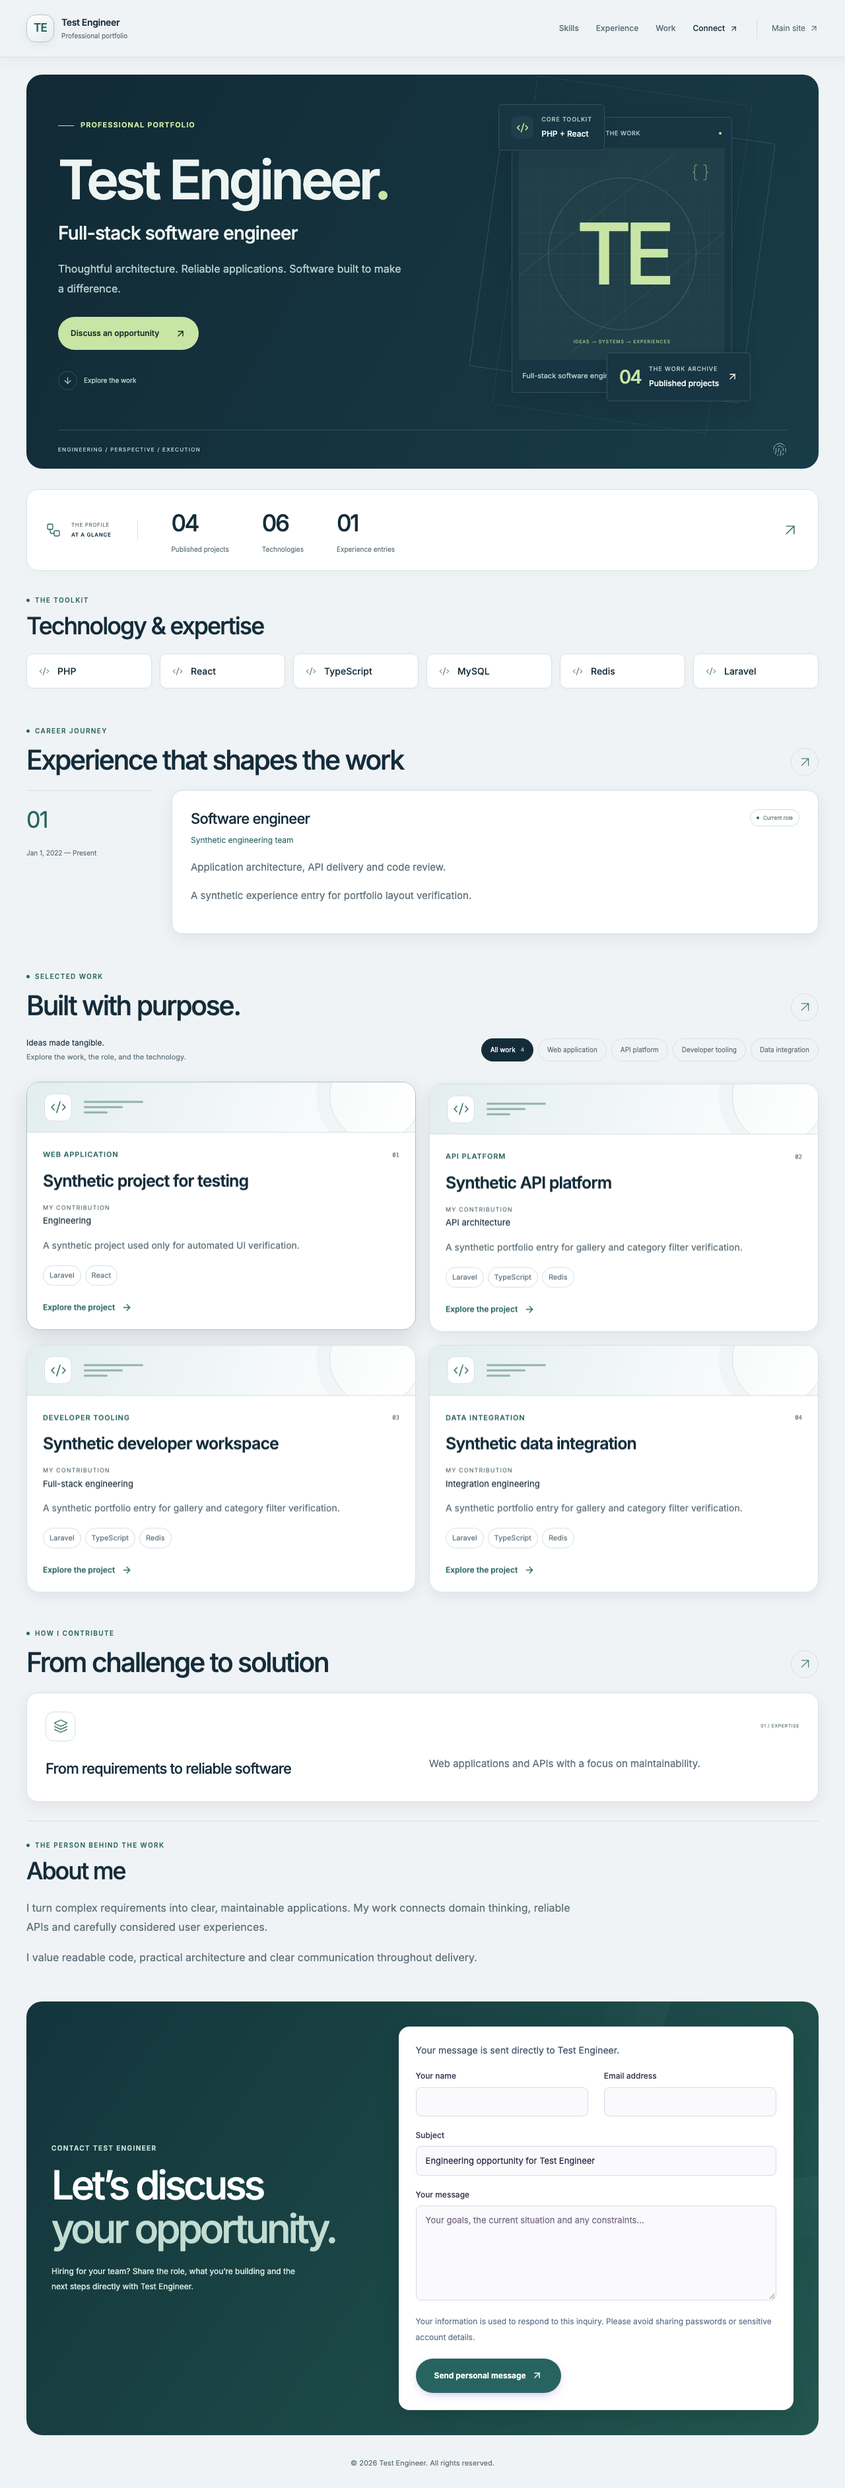
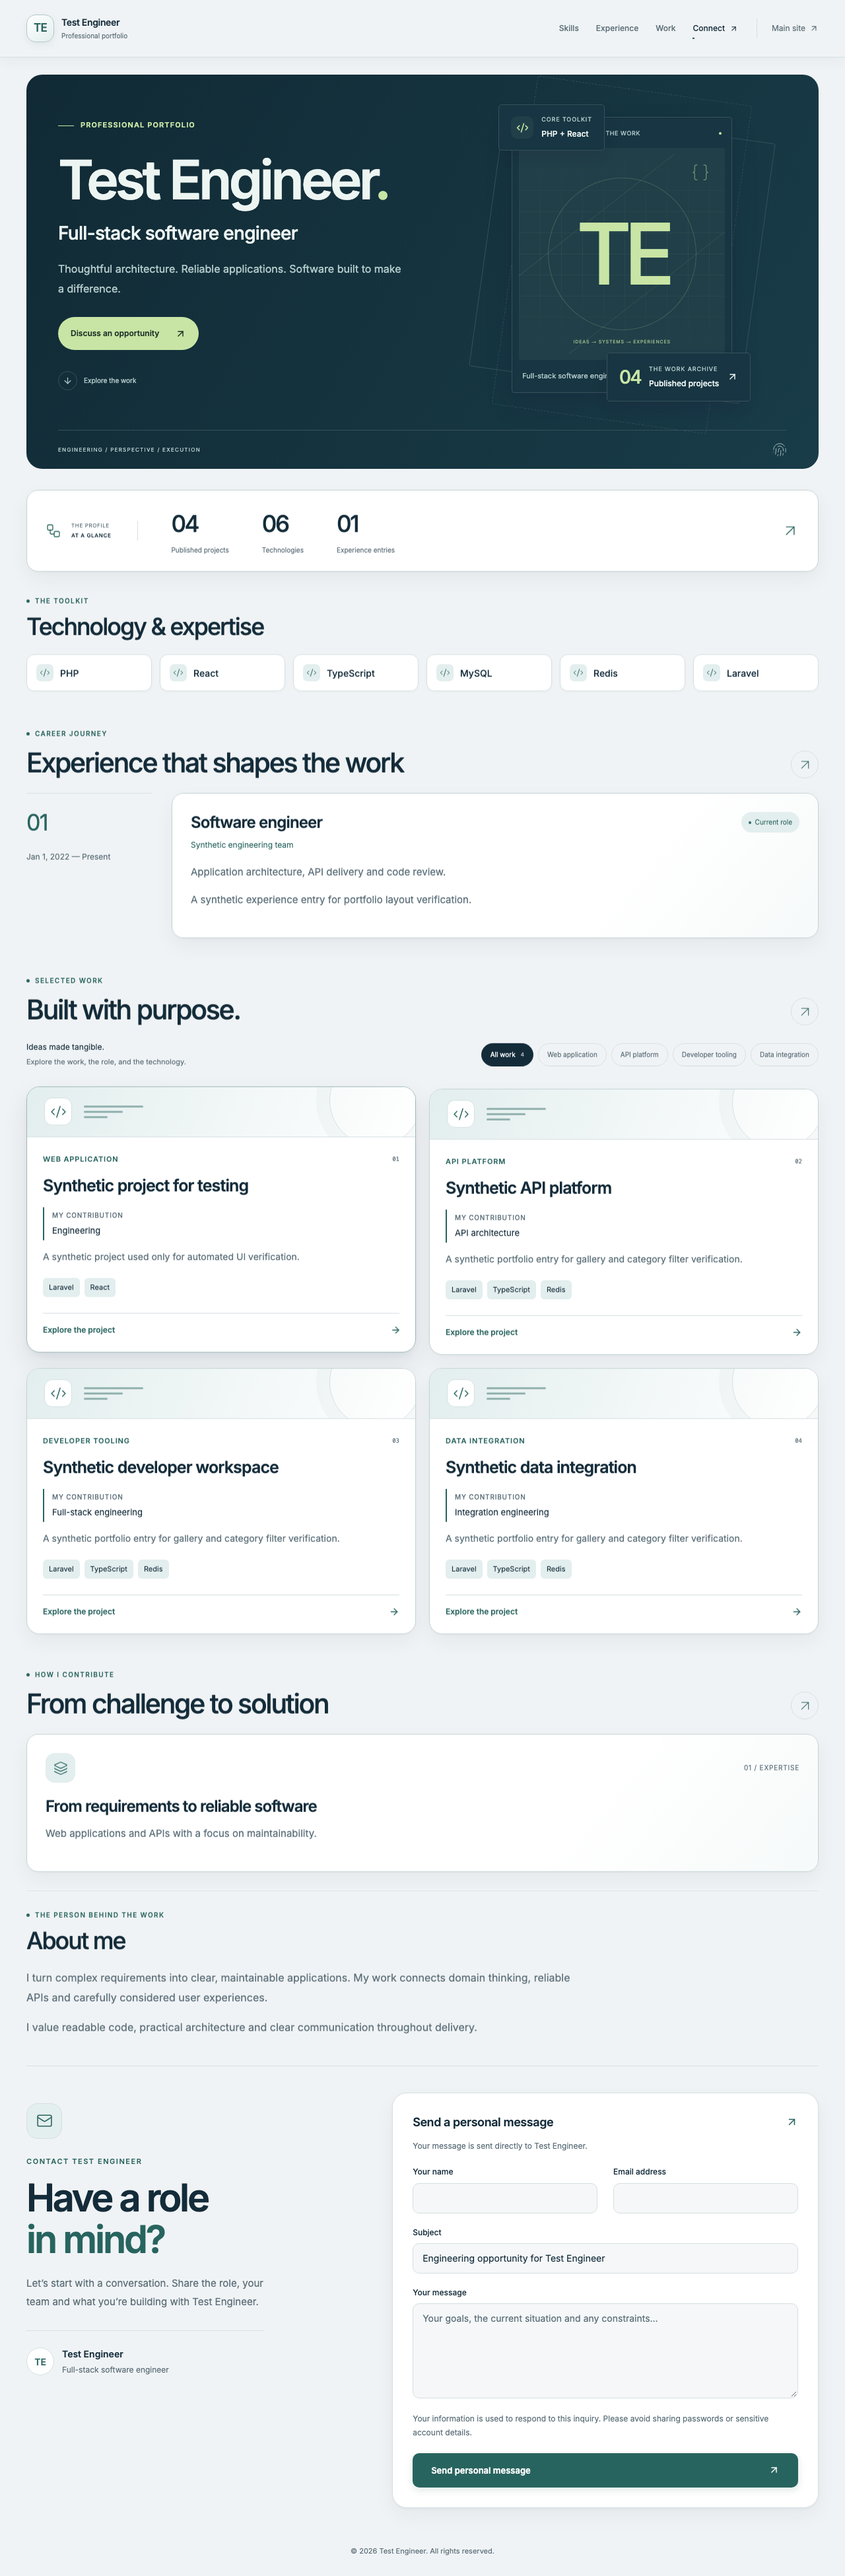
Verify portfolio card polish and theme-aware contact layouts

diff --git a/tests/browser/website.spec.ts b/tests/browser/website.spec.ts
@@ -295,8 +295,10 @@ test('portfolio template studio previews five layouts and persists the public se
     await expect(page.getByRole('button', { name: 'Mobile preview', exact: true })).toHaveAttribute('aria-pressed', 'true');
     expect(await preview.evaluate(element => element.scrollWidth <= element.clientWidth + 1)).toBeTruthy();
     await page.getByRole('button', { name: 'Desktop preview', exact: true }).click();
-    await page.getByRole('button', { name: 'Save template', exact: true }).click();
-    await expect(page.locator('.workspace-notice[role="status"]')).toContainText('Portfolio template saved.');
+    if (await page.getByRole('button', { name: 'Save template', exact: true }).isEnabled()) {
+      await page.getByRole('button', { name: 'Save template', exact: true }).click();
+      await expect(page.locator('.workspace-notice[role="status"]')).toContainText('Portfolio template saved.');
+    }
     await page.reload();
     await expect(page.getByRole('radio', { name: new RegExp(name) })).toBeChecked();
     await page.goto('/portfolios/TESTPROFILE');
@@ -418,6 +420,7 @@ test('portfolio template studio previews five layouts and persists the public se
     await expect.poll(() => page.evaluate(() => window.scrollY)).toBe(0);
     await expect(page.getByRole('link', { name: 'Main site', exact: true })).toBeInViewport();
     await page.screenshot({ path: testInfo.outputPath(`portfolio-${name.toLowerCase()}.png`), fullPage: true });
+    await page.locator('.pf-connect').screenshot({ path: testInfo.outputPath(`contact-${name.toLowerCase()}.png`) });
     await page.getByRole('link', { name: 'Main site', exact: true }).click();
     await expect(page).toHaveURL(/\/$/);
     await expect(page.getByRole('heading', { level: 1 })).toContainText('Build, Modernize');

diff --git a/resources/css/portfolio.css b/resources/css/portfolio.css
@@ -479,3 +479,5 @@
 @container(max-width:800px) { .pf-connect { grid-template-columns:1fr; gap:26px; padding-top:30px; } .pf-connect-copy { padding:0; } .pf-connect-details { max-width:none; margin-top:22px; padding-top:18px; } .pf-connect h2 { font-size:40px; } .pf-connect-icon { width:46px; height:46px; margin-bottom:20px; } }
 @container(max-width:680px) { .pf-connect-form { padding:22px; border-radius:18px; } .pf-connect-form .form-control { font-size:16px; } .pf-connect-form fieldset>.grid { grid-template-columns:1fr; gap:20px; } .portfolio-view :is(.pf-experience-body,.pf-services>article) { padding:22px; } .portfolio-view .pf-experience h3,.portfolio-view .pf-services h3 { font-size:21px; } .portfolio-view .pf-profile-row .pf-skills>span { padding:12px; gap:8px; } }
 @media(prefers-reduced-motion:reduce) { .portfolio-view :is(.pf-experience-body,.pf-services>article,.pf-text-link svg) { transition:none; } }
+
+.portfolio-view .pf-project:is(:hover,:focus-within) { border-color:color-mix(in srgb,var(--pf-accent) 40%,var(--pf-line)); box-shadow:0 6px 12px color-mix(in srgb,var(--pf-ink) 5%,transparent),0 20px 42px color-mix(in srgb,var(--pf-ink) 12%,transparent); }

diff --git a/docs/COMPLETION_REPORT.md b/docs/COMPLETION_REPORT.md
@@ -211,3 +211,7 @@ Removed personal navigation/header from all five portfolio templates and preview
 Restored the personal portfolio header, correcting the earlier interpretation that removed it. The updated header displays a theme-aware initials tile and creator name, open Skills/Experience/Work/Connect navigation, and a Main site link beside it. It remains sticky with a full-width translucent background, divider and shadow; inner content stays in the centered portfolio shell, and mobile uses two rows. Section offsets prevent navigation from covering headings. The corporate header stays absent and the footer remains copyright-only.
 
 Validation includes all five themes on desktop/mobile, actual section-anchor switching, sticky header geometry, visible creator name, main-site navigation, six-column responsive expertise grid, template persistence and unchanged personal contact/upload flows. Expanded five-theme checks use a 60-second timeout to cover twenty anchor interactions. Client/SSR builds, TypeScript and lint pass. No database/environment/backend changes or deployment. Release/rollback remains asset build plus SSR restart through the existing approved workflow.
+
+
+### Portfolio card and inline contact polish — 2026-10-16
+Refined card surfaces, typography, skill icons, project contribution labels, tags and hover depth. Replaced the nested contact panels with an open layout and a single theme-aware form card, keeping direct candidate routing, validation, status messages and disabled previews. All 6 affected desktop/mobile browser scenarios pass across five themes, including screenshot uploads and personal inquiry submission. Types, lint and client/SSR builds pass. Initial checks exposed a CSS specificity issue suppressing hover shadow and a test trying to save an unchanged template after an earlier failure; both were corrected and rerun. Updated full-page synthetic captures reviewed. No new performance measurements, data changes or deployment. Deploy built assets/restart SSR using the approved release workflow; revert the presentation commits and rebuild to roll back.

diff --git a/docs/PORTFOLIO_TEMPLATES.md b/docs/PORTFOLIO_TEMPLATES.md
@@ -127,3 +127,9 @@ The Technology & expertise grid uses six equal columns above 1,023px, three from
 The template chooser includes an expandable content-preparation guide using existing public preview data. It checks presence of role, objective, skills, projects and a publicly visible CV; this is not a quality score or a promise of interviews. Existing registration, email verification, permission configuration and administrator-controlled publication still apply. Self-service automatic publication is not implemented by this presentation change.
 
 No database, dependency or environment changes are required. Build client and SSR assets and restart the existing SSR process as part of the documented deployment workflow. Revert this presentation commit and rebuild to roll back; no data rollback is needed.
+
+
+### Card and contact surfaces (2026-10-16)
+Project, experience, capability, overview and skill cards share restrained theme-aware depth and refined borders. Project contributions have a distinct accent rule, technology tags use subtle surfaces, and the project action has its own footer divider. Real uploaded thumbnails remain compact and uncropped. Six-column expertise and personal sticky navigation are preserved.
+
+Inline portfolio contact uses an open two-column composition with one form surface, replacing the enclosing colored parent card. The form inherits each theme, including Blueprint dark mode, and uses visible labels, focus rings, field errors and the existing submission status. The separate personal inquiry page is unchanged. Messages still target the portfolio owner; previews stay disabled. No dependency, database or environment changes are required.

diff --git a/docs/IMPLEMENTATION_CHECKLIST.md b/docs/IMPLEMENTATION_CHECKLIST.md
@@ -272,4 +272,4 @@ Status legend: [x] implemented/verified, [ ] pending. Updated continuously; inco
 - [x] Inspect existing card styles and nested dark contact container; retain real screenshots, five themes, six-column expertise and sticky header.
 - [x] Refine project, experience, capability, overview and skill surfaces, typography, contribution labels, tags and restrained hover depth.
 - [x] Replace the enclosing contact panel with an open two-column composition and one theme-aware form card; preserve personal recipients and validation.
-- [ ] Verify types, lint, builds, five-theme desktop/mobile layouts, contact submission and screenshots; review final captures.
+- [x] Types, lint, client/SSR builds and all 6 affected desktop/mobile browser scenarios pass: five-theme navigation, contrast sampling, card hover, personal inquiry submission and screenshot upload. Review and refresh captures. Fix project hover specificity; prevent template tests from saving an unchanged selection after a preceding failed scenario.
